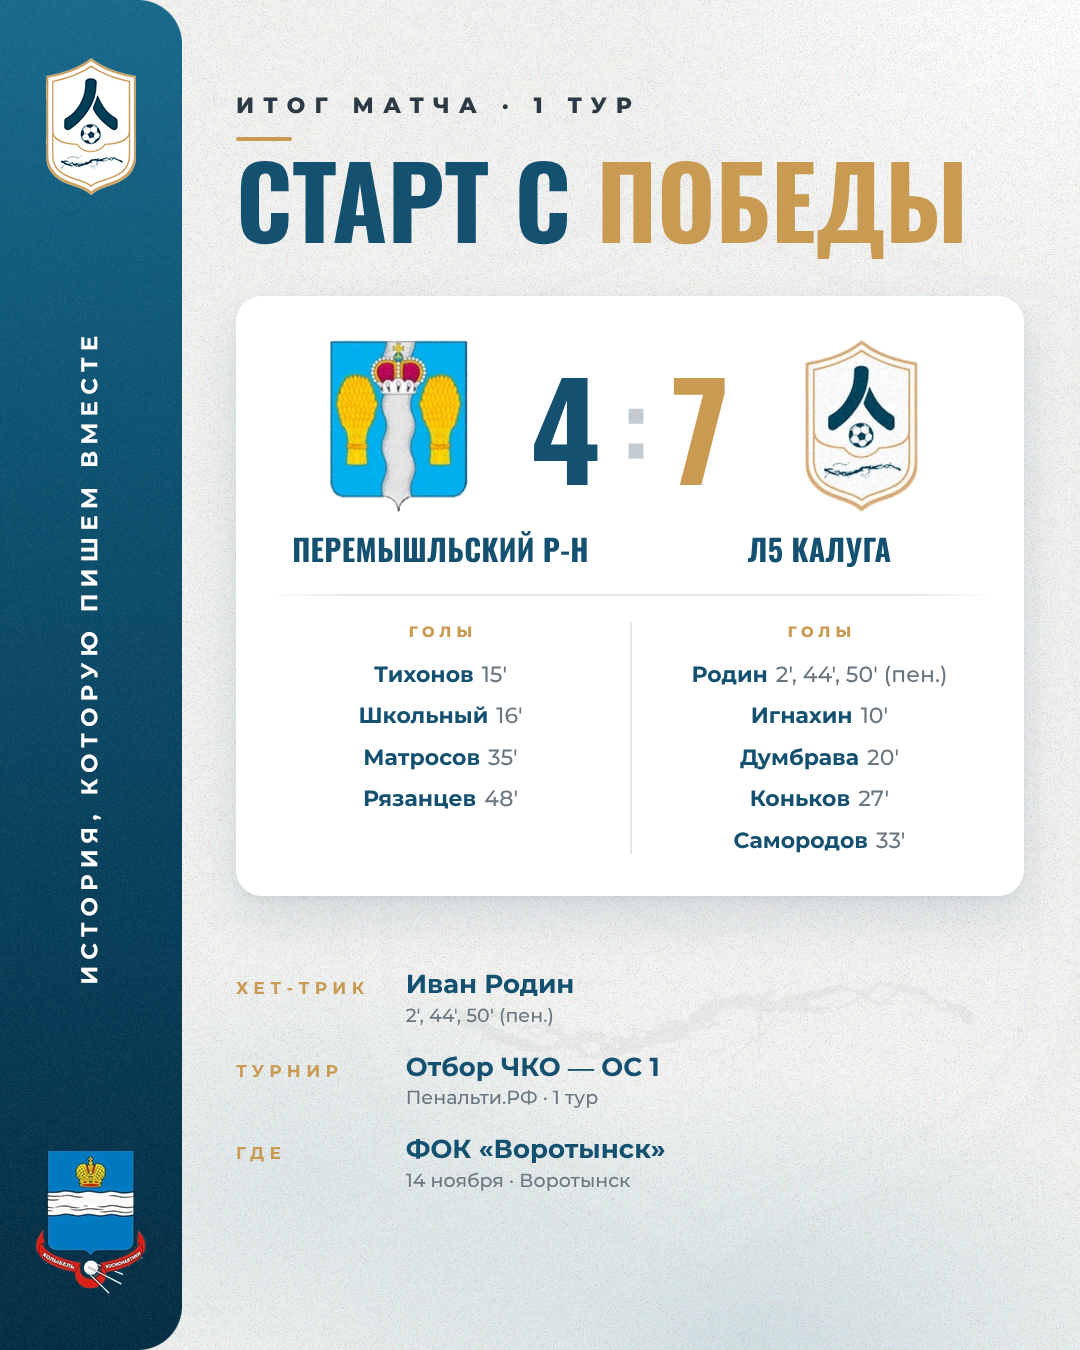
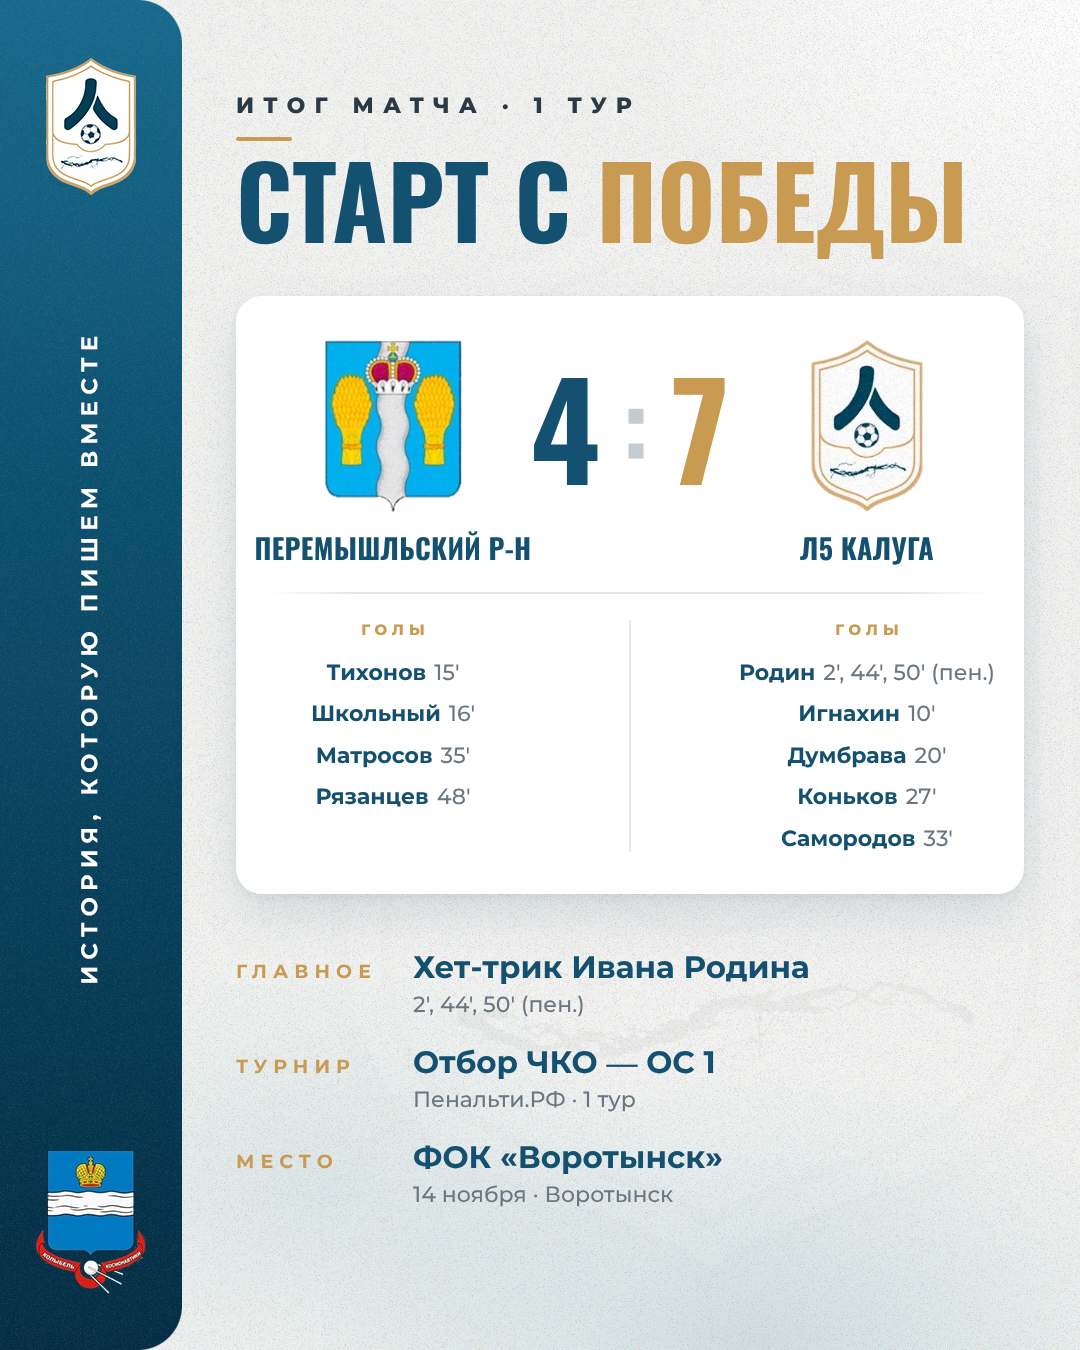
Match card: center club names under crests, rename rows, larger footer text
Claude-Session: https://claude.ai/code/session_01BAoifR2VyKx7kzhUngMqXC

diff --git a/l5-match-1tur/source/match.html b/l5-match-1tur/source/match.html
@@ -12,41 +12,40 @@ h1{position:absolute;top:148px;font:700 100px/1 Osw;color:var(--blue);white-spac
 h1 b{color:var(--gold)}
 .score{position:absolute;top:296px;left:0;right:0;background:#fff;border-radius:26px;padding:44px 30px 42px;
  box-shadow:0 22px 50px rgba(20,60,90,.12),0 3px 10px rgba(20,60,90,.06)}
-.top{display:grid;grid-template-columns:1fr auto 1fr;align-items:center}
+.g{display:grid;grid-template-columns:minmax(0,1fr) 220px minmax(0,1fr)}
+.top{align-items:center;row-gap:22px}
 .top img{height:172px;justify-self:center}
-.res{font:700 132px/1 Osw;color:var(--blue);display:flex;align-items:center;gap:22px}
+.res{font:700 132px/1 Osw;color:var(--blue);display:flex;align-items:center;justify-content:center;gap:22px}
 .res i{font-style:normal;color:#c5ccd1;font-size:98px;transform:translateY(-6px)}
 .res .w{color:var(--gold)}
-.half{display:grid;grid-template-columns:1fr 1fr;column-gap:30px}
-.names{margin-top:22px}
-.names span{font:700 30px/1 Osw;color:var(--blue);text-align:center;white-space:nowrap;letter-spacing:.01em}
+.nm{font:700 28px/1 Osw;color:var(--blue);text-align:center;white-space:nowrap;letter-spacing:.01em;justify-self:center}
 .div{height:2px;background:linear-gradient(90deg,transparent,#e3e7ea 12%,#e3e7ea 88%,transparent);margin:30px 0 26px}
-.sc{display:flex;flex-direction:column;align-items:center;gap:15px;position:relative}
-.half .sc+.sc:before{content:"";position:absolute;left:-15px;top:0;bottom:0;width:2px;background:#e3e7ea}
+.vl{width:2px;background:#e3e7ea;justify-self:center}
+.sc{display:flex;flex-direction:column;align-items:center;gap:15px}
 .sc div{font:500 22px/1.2 Mont;color:var(--muted);white-space:nowrap}
 .sc div b{font-weight:700;color:var(--blue);margin-right:8px}
 .sc .cap{text-align:center;font:800 15px Mont;letter-spacing:.34em;color:var(--gold);margin-bottom:6px;padding-left:.34em}
-.rows{position:absolute;top:970px;left:0;right:0;display:grid;grid-template-columns:max-content 1fr;column-gap:36px;row-gap:24px}
-.l{font:700 17px Mont;letter-spacing:.32em;color:var(--gold);padding-top:8px}
-.v{font:700 26px/1.15 Mont;color:var(--blue)}
-.v small{display:block;font:500 19px/1.3 Mont;color:var(--muted);margin-top:4px}
+.rows{position:absolute;top:950px;left:0;right:0;display:grid;grid-template-columns:max-content 1fr;column-gap:36px;row-gap:26px}
+.l{font:700 19px Mont;letter-spacing:.32em;color:var(--gold);padding-top:10px}
+.v{font:700 31px/1.15 Mont;color:var(--blue)}
+.v small{display:block;font:500 22px/1.3 Mont;color:var(--muted);margin-top:5px}
 </style></head><body><div class="c">
 <div class="kick">ИТОГ МАТЧА · 1 ТУР</div>
 <h1>СТАРТ С <b>ПОБЕДЫ</b></h1>
 <div class="score">
- <div class="top"><img src="crest_per.png"><div class="res"><span>4</span><i>:</i><span class="w">7</span></div><img src="crest_l5.png"></div>
- <div class="half names"><span>ПЕРЕМЫШЛЬСКИЙ Р-Н</span><span>Л5 КАЛУГА</span></div>
+ <div class="g top"><img src="crest_per.png"><div class="res"><span>4</span><i>:</i><span class="w">7</span></div><img src="crest_l5.png">
+  <span class="nm">ПЕРЕМЫШЛЬСКИЙ Р-Н</span><span></span><span class="nm">Л5 КАЛУГА</span></div>
  <div class="div"></div>
- <div class="half">
+ <div class="g">
   <div class="sc"><div class="cap">ГОЛЫ</div>
-   <div><b>Тихонов</b>15'</div><div><b>Школьный</b>16'</div><div><b>Матросов</b>35'</div><div><b>Рязанцев</b>48'</div></div>
+   <div><b>Тихонов</b>15'</div><div><b>Школьный</b>16'</div><div><b>Матросов</b>35'</div><div><b>Рязанцев</b>48'</div></div><div class="vl"></div>
   <div class="sc"><div class="cap">ГОЛЫ</div>
    <div><b>Родин</b>2', 44', 50' (пен.)</div><div><b>Игнахин</b>10'</div><div><b>Думбрава</b>20'</div><div><b>Коньков</b>27'</div><div><b>Самородов</b>33'</div></div>
  </div>
 </div>
 <div class="rows">
- <div class="l">ХЕТ-ТРИК</div><div class="v">Иван Родин<small>2', 44', 50' (пен.)</small></div>
+ <div class="l">ГЛАВНОЕ</div><div class="v">Хет-трик Ивана Родина<small>2', 44', 50' (пен.)</small></div>
  <div class="l">ТУРНИР</div><div class="v">Отбор ЧКО — ОС 1<small>Пенальти.РФ · 1 тур</small></div>
- <div class="l">ГДЕ</div><div class="v">ФОК «Воротынск»<small>14 ноября · Воротынск</small></div>
+ <div class="l">МЕСТО</div><div class="v">ФОК «Воротынск»<small>14 ноября · Воротынск</small></div>
 </div>
 </div></body></html>
